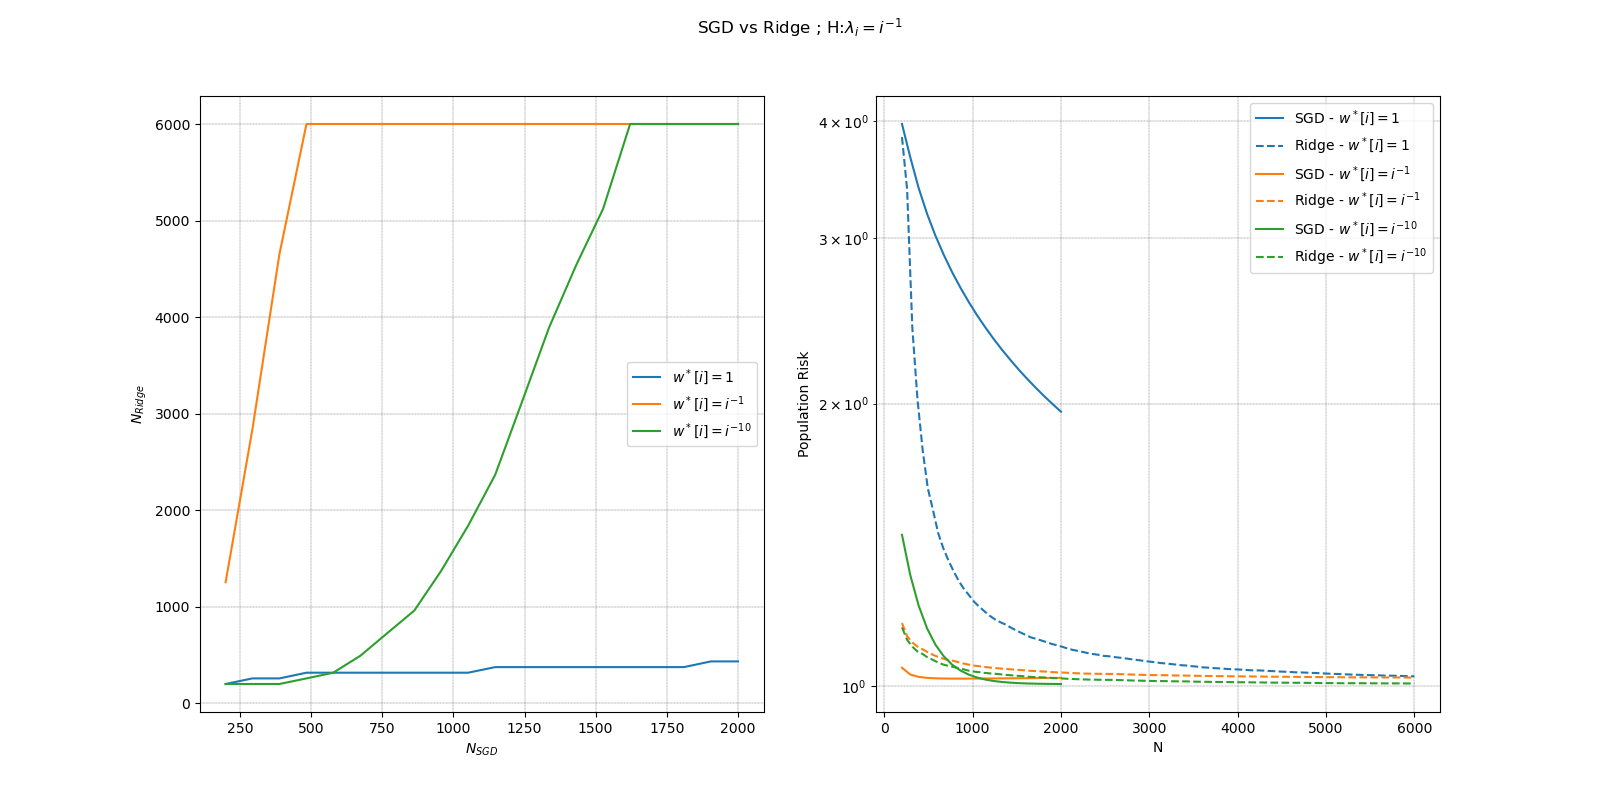
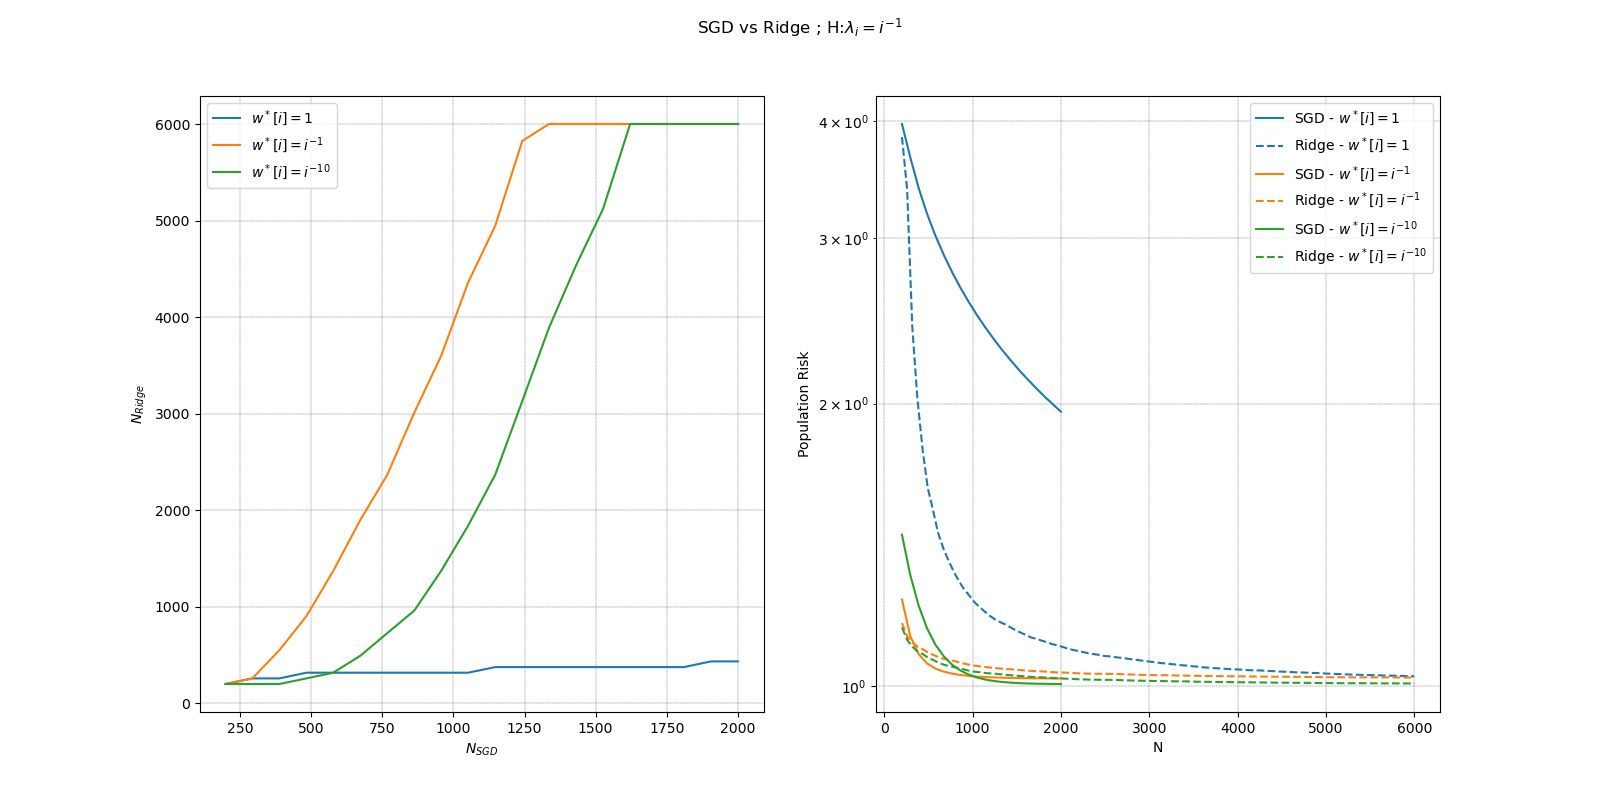
Fix data_generation & train SGD other seed

diff --git a/benefits_data_generation.py b/benefits_data_generation.py
@@ -55,21 +55,22 @@ w_ridge = np.zeros((nb_avg, len(n_ridge), d))
 w_sgd = np.zeros((nb_avg, len(n_sgd), d))
 
 if not FINE_TUNE and USE_SAVED_PARAMS: # load best coeffs
-    try:
-        load = np.load(SAVE_SGD_GAMMA)
-        learning_rate = load[0]
-        if (n_sgd == load[1]).all():
-            warnings.warn('Learning rates fine-tuned for different values of n_sgd', UserWarning)
-    except FileNotFoundError:
-        print(f'No learning rates found - using default lr={learning_rate[0]}')
-
-    try:
-        load = np.load(SAVE_RIDGE_LAMBDA)
-        lambda_ = load[0]
-        if (n_ridge == load[1]).all():
-            warnings.warn('Lambda values fine-tuned for different values of n_ridge', UserWarning)
-    except FileNotFoundError:
-        print(f'No lambdas found - using default lambda={lambda_[0]}')
+    if GENERATE_SGD:
+        try:
+            load = np.load(SAVE_SGD_GAMMA)
+            learning_rate = load[0]
+            if (n_sgd != load[1]).any():
+                warnings.warn('Learning rates fine-tuned for different values of n_sgd', UserWarning)
+        except FileNotFoundError:
+            print(f'No learning rates found - using default lr={learning_rate[0]}')
+    if GENERATE_RIDGE:
+        try:
+            load = np.load(SAVE_RIDGE_LAMBDA)
+            lambda_ = load[0]
+            if (n_ridge != load[1]).any():
+                warnings.warn('Lambda values fine-tuned for different values of n_ridge', UserWarning)
+        except FileNotFoundError:
+            print(f'No lambdas found - using default lambda={lambda_[0]}')
 
 # Averaging results
 for i in tqdm(range(nb_avg)):

diff --git a/benefits_fine_tuning.py b/benefits_fine_tuning.py
@@ -26,7 +26,7 @@ n_sgd = np.floor(np.linspace(d,N_max_sgd,20)).astype(dtype=np.uint16)
 
 n_fine_tune_params = 10 # nb of hyperparameters tested
 
-lambdas_ = np.logspace(-5,0,n_fine_tune_params, base=10.0) # range of parameters
+lambdas_ = np.logspace(-5,-1,n_fine_tune_params, base=10.0) # range of parameters
 learning_rates = np.logspace(-6,-2,n_fine_tune_params)
 
 intern_dim = 10
@@ -35,7 +35,7 @@ optimizer = 'SGD'
 learning_rates = np.logspace(-6,-2,n_fine_tune_params)
 
 which_h = 1 # 1 or 2 -> i**(-...)
-which_w = 10 # 0, 1 or 10 -> i**(-...)
+which_w = 0 # 0, 1 or 10 -> i**(-...)
 
 FINE_TUNE_RIDGE = True
 FINE_TUNE_SGD = False
